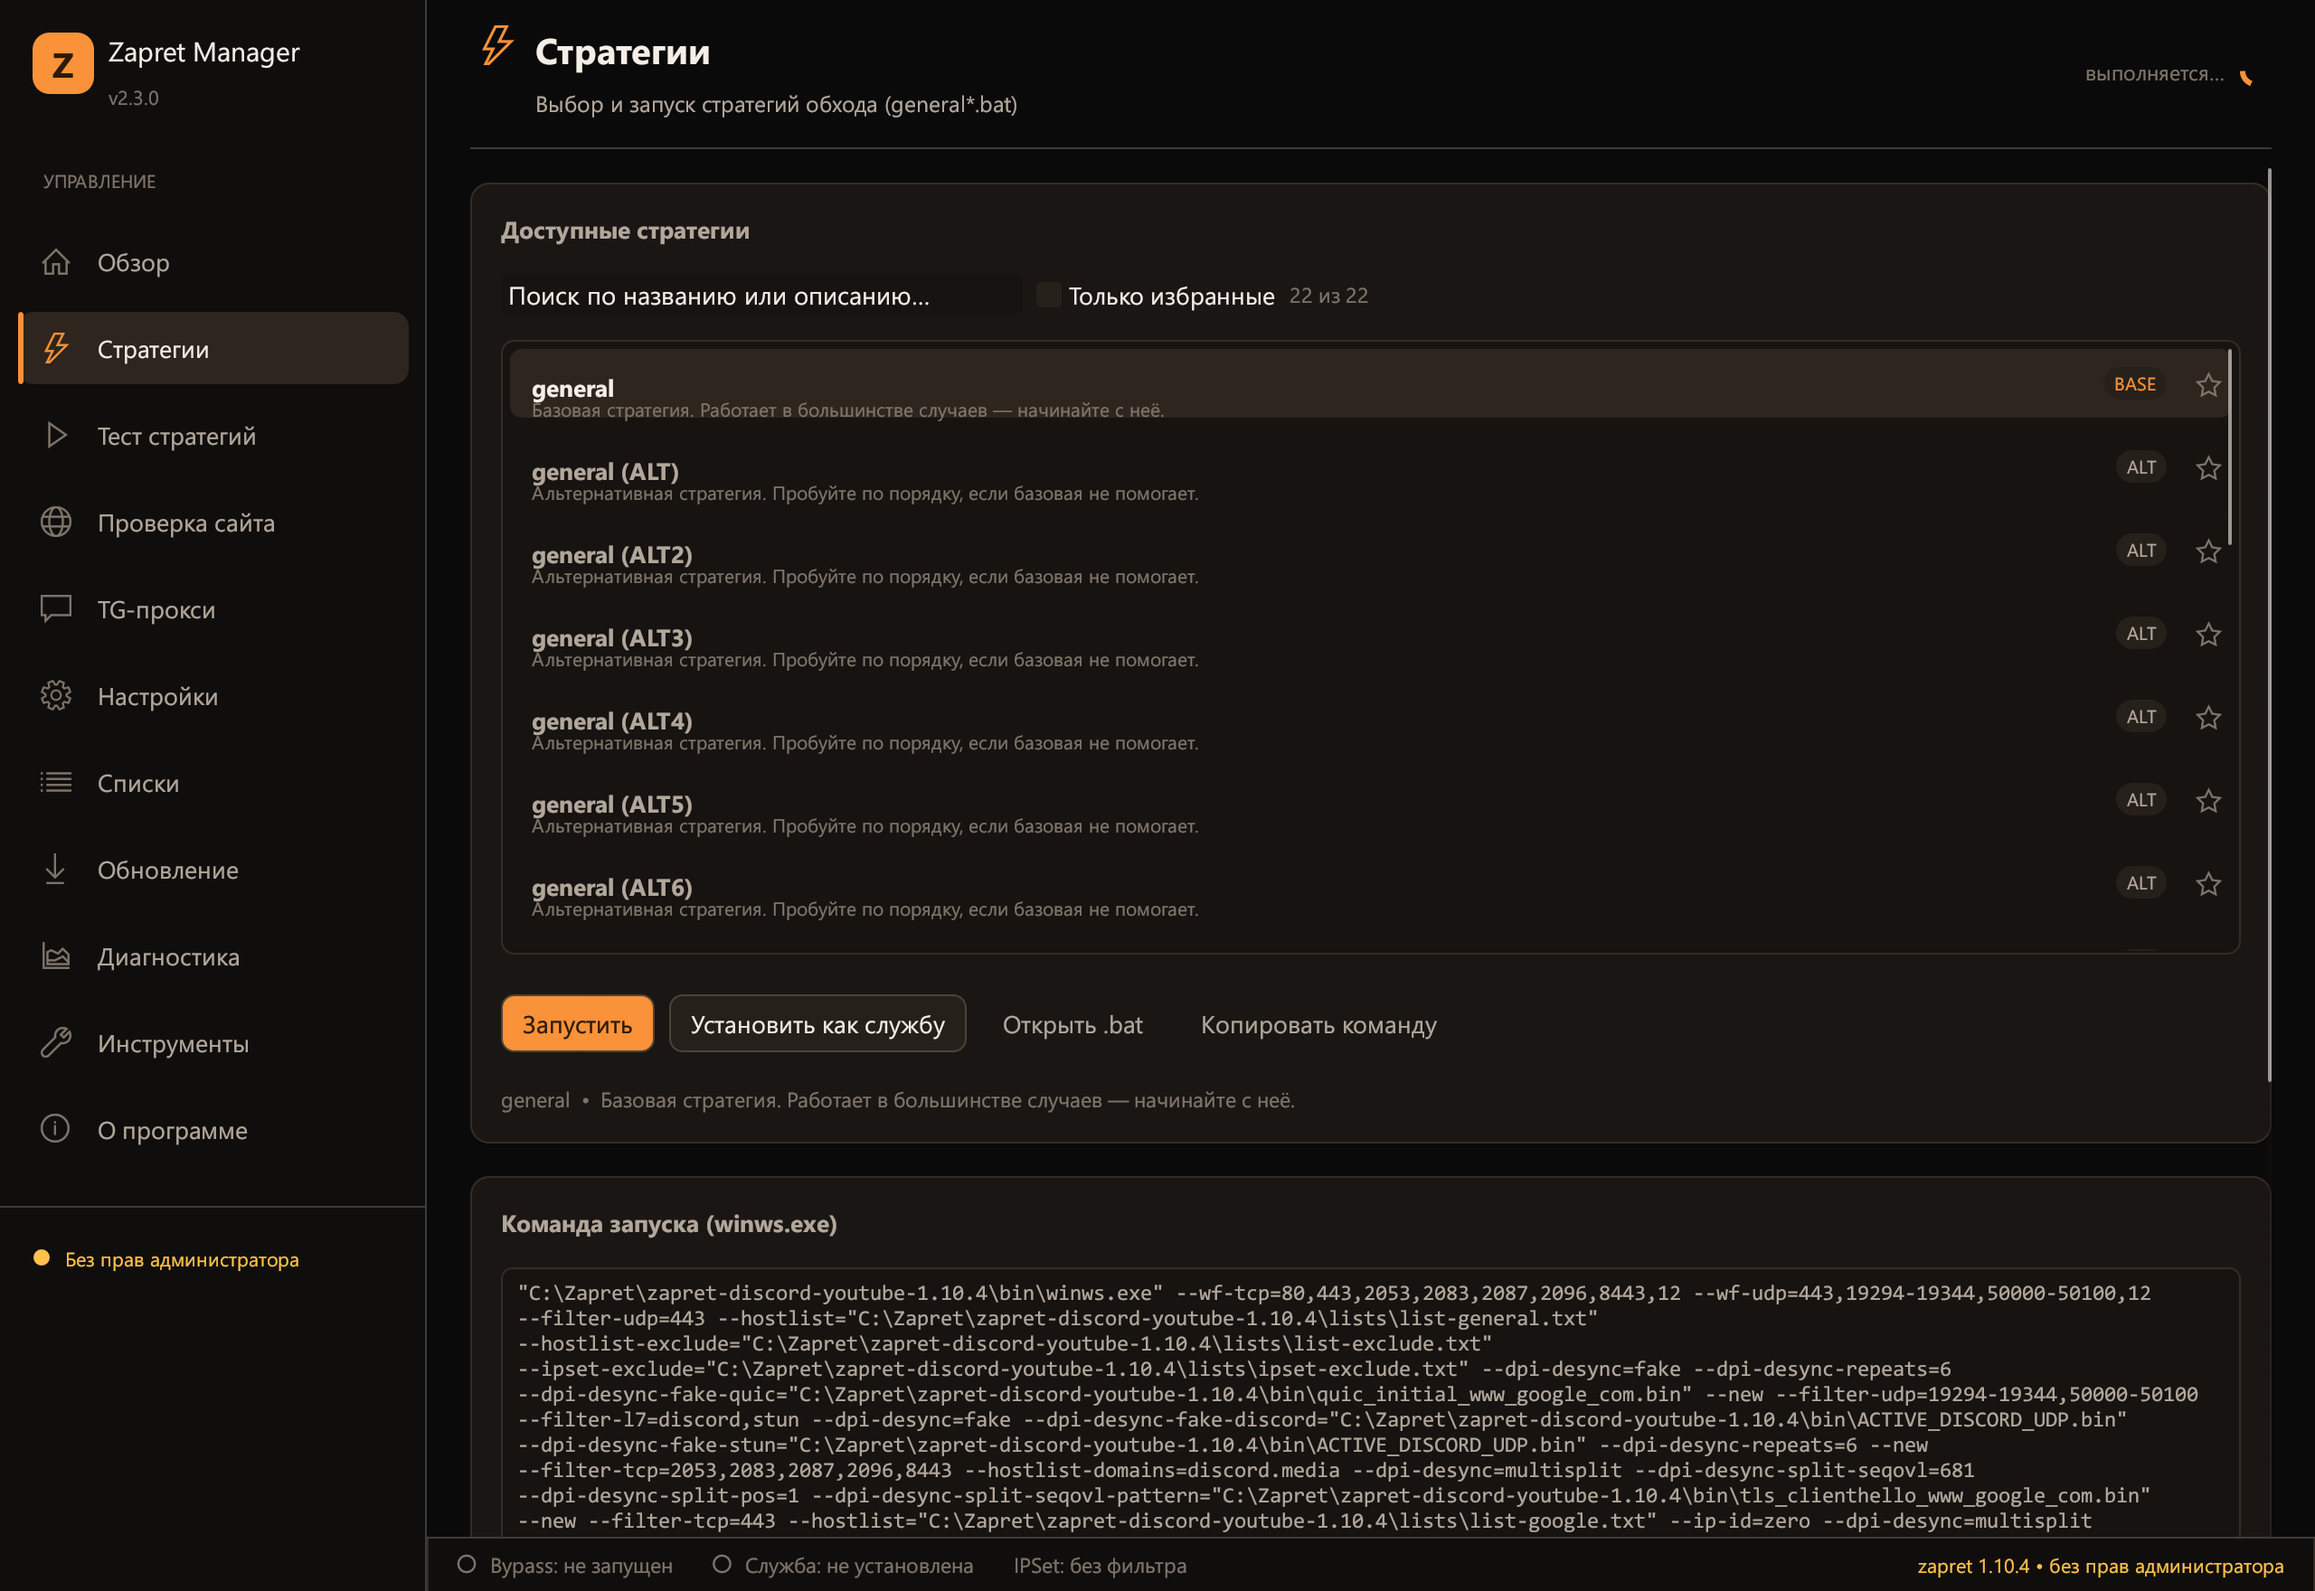
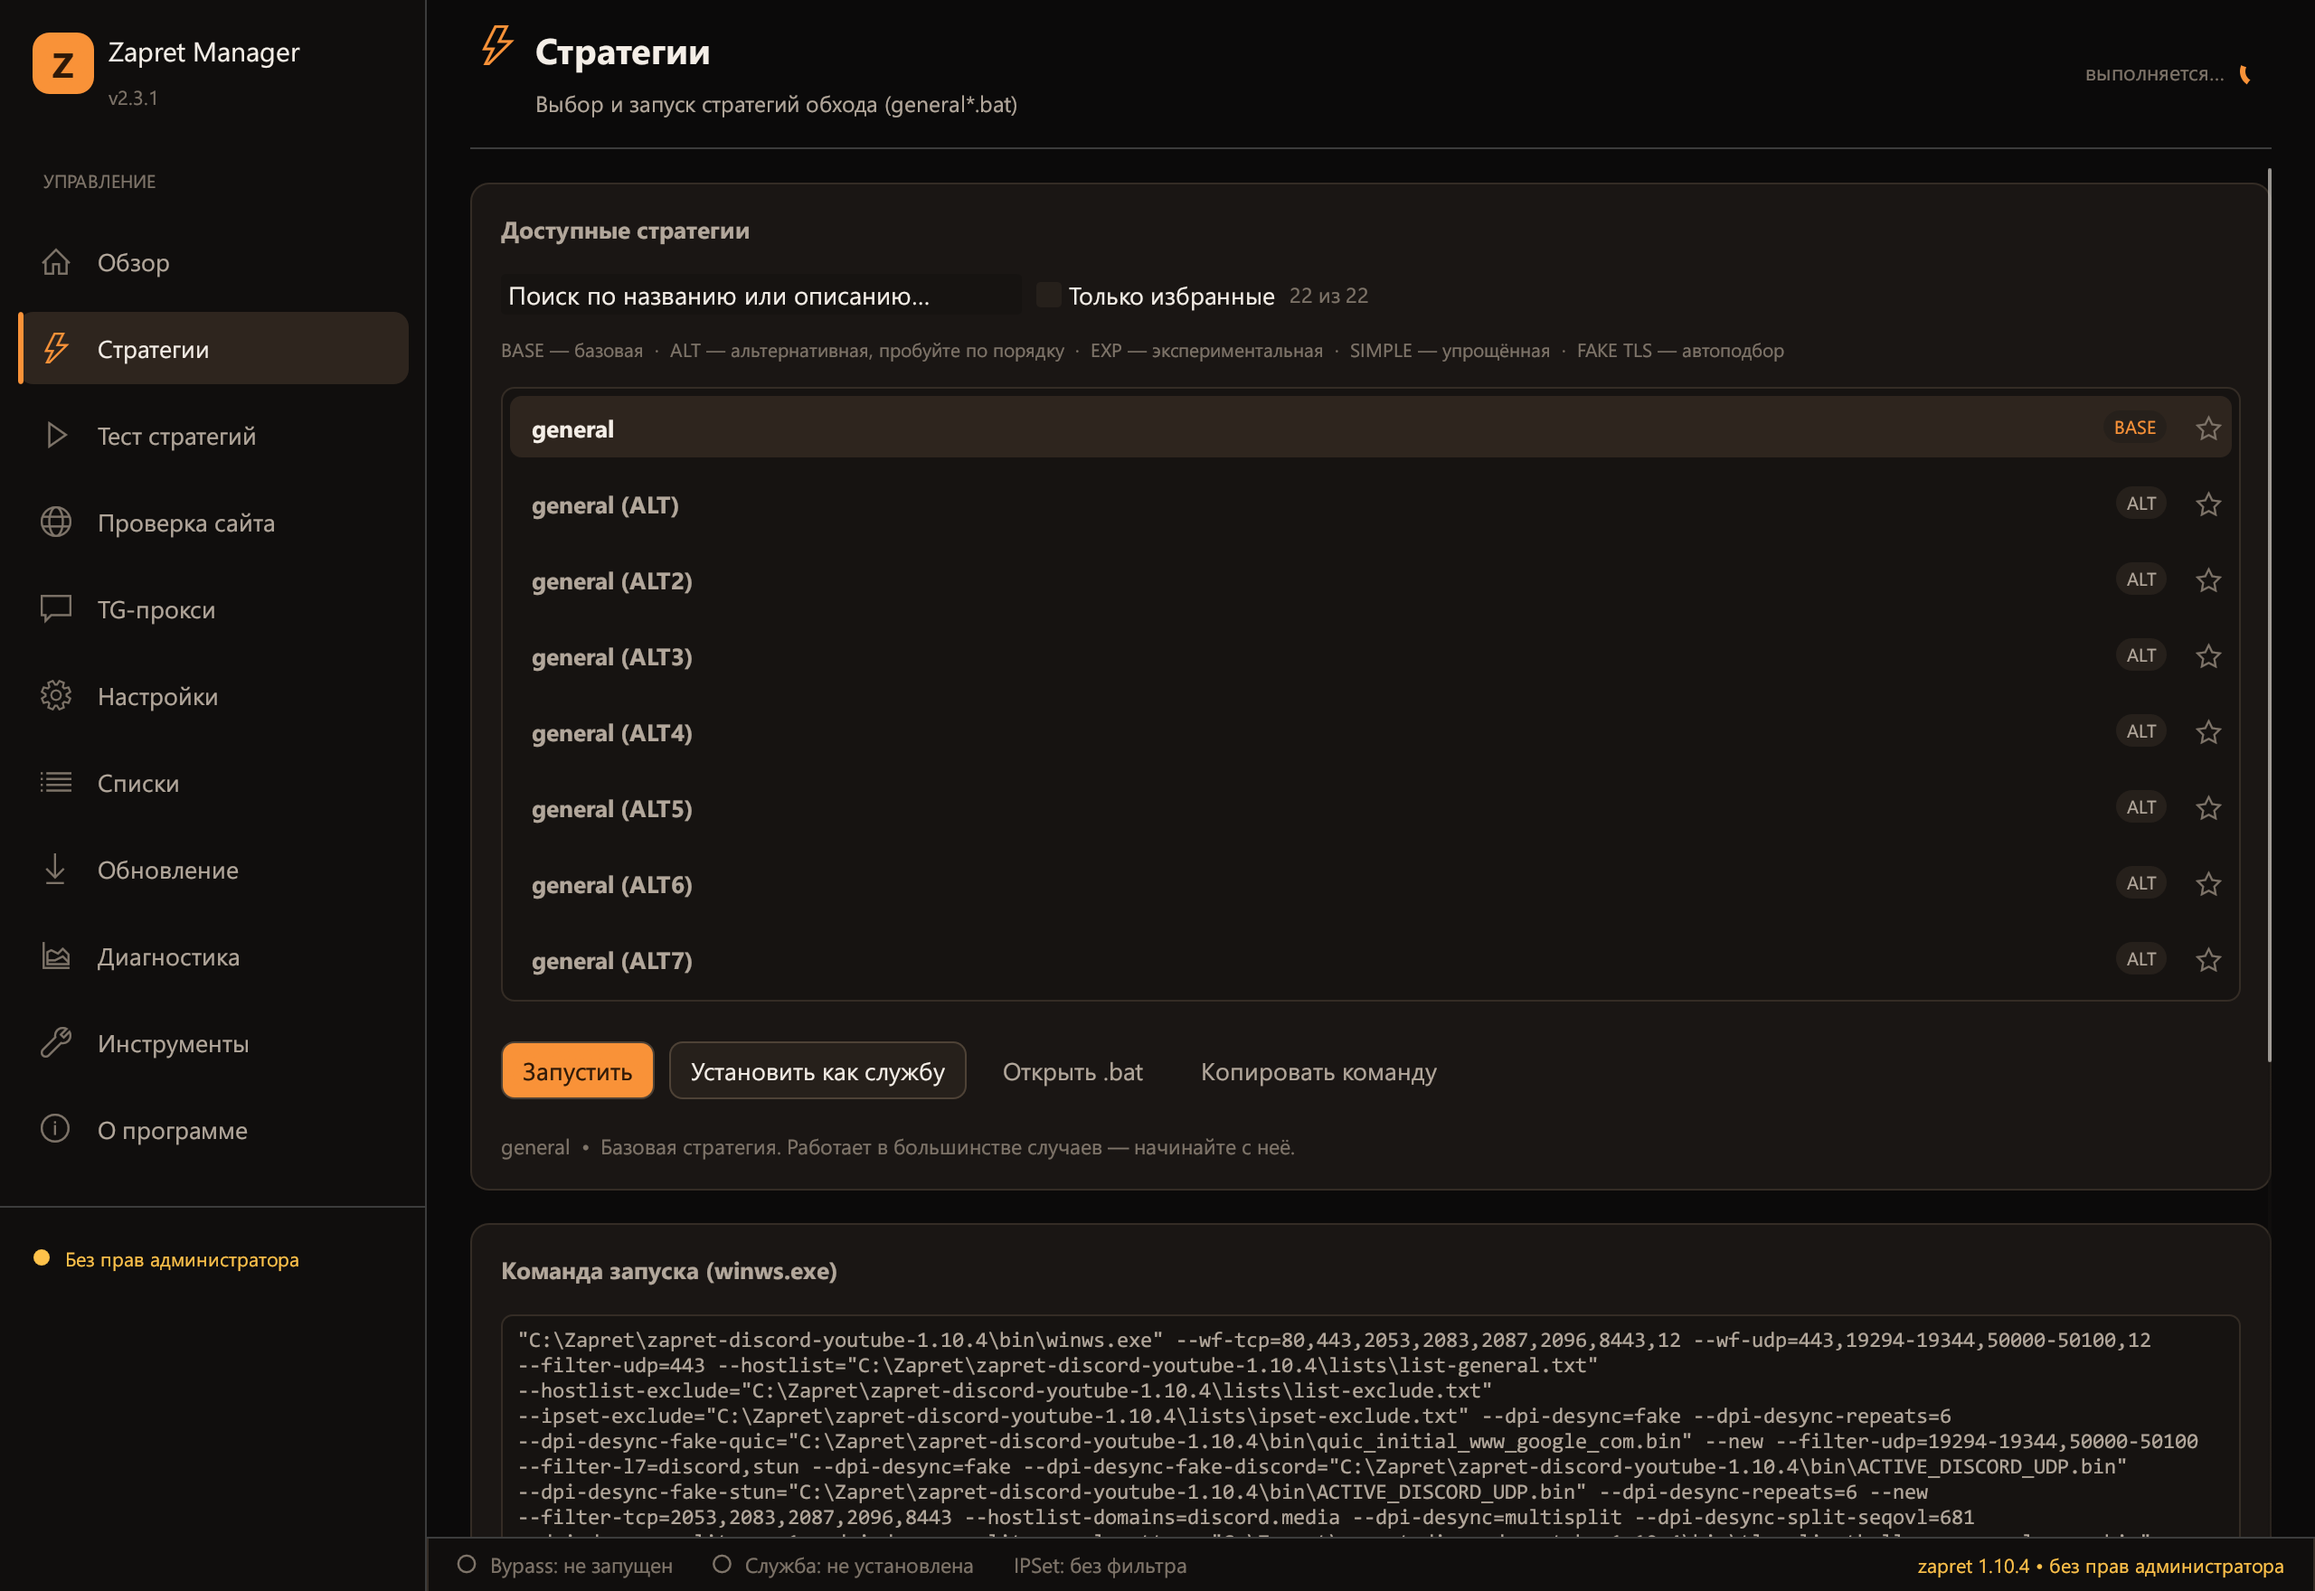
2.3.2: компактный список стратегий без повторяющихся подписей

diff --git a/src/ui/pages/strategies.rs b/src/ui/pages/strategies.rs
@@ -108,6 +108,14 @@ impl App {
                         .color(p.text_muted),
                 );
             });
+            ui.add_space(4.0);
+            ui.label(
+                RichText::new(
+                    "BASE — базовая  ·  ALT — альтернативная, пробуйте по порядку  ·  EXP — экспериментальная  ·  SIMPLE — упрощённая  ·  FAKE TLS — автоподбор",
+                )
+                .size(10.5)
+                .color(p.text_muted),
+            );
             ui.add_space(6.0);
             let mut toggle_fav: Option<String> = None;
             egui::Frame::none()
@@ -129,7 +137,7 @@ impl App {
                                 let s = &strategies[idx];
                                 let is_selected = idx == selected;
                                 let (rect, resp) = ui.allocate_exact_size(
-                                    egui::vec2(ui.available_width(), 38.0),
+                                    egui::vec2(ui.available_width(), 34.0),
                                     egui::Sense::click(),
                                 );
                                 let star_rect = egui::Rect::from_center_size(
@@ -148,18 +156,11 @@ impl App {
                                 }
                                 let is_active = !active.is_empty() && s.name.eq_ignore_ascii_case(&active);
                                 ui.painter().text(
-                                    egui::pos2(rect.left() + 12.0, rect.top() + 12.0),
-                                    egui::Align2::LEFT_TOP,
+                                    egui::pos2(rect.left() + 12.0, rect.center().y),
+                                    egui::Align2::LEFT_CENTER,
                                     &s.name,
                                     egui::FontId::new(13.0, egui::FontFamily::Name("bold".into())),
                                     if is_selected { p.text } else { p.text_dim },
-                                );
-                                ui.painter().text(
-                                    egui::pos2(rect.left() + 12.0, rect.top() + 26.0),
-                                    egui::Align2::LEFT_TOP,
-                                    &s.description,
-                                    egui::FontId::new(10.5, egui::FontFamily::Proportional),
-                                    p.text_muted,
                                 );
                                 let is_fav = favorites.contains(&s.name.to_lowercase());
                                 ui.painter().text(

diff --git a/src/lib.rs b/src/lib.rs
@@ -7,7 +7,7 @@ pub mod ui;
 pub mod util;
 
 /// Версия приложения (показывается в интерфейсе и в журнале).
-pub const APP_VERSION: &str = "2.3.1";
+pub const APP_VERSION: &str = "2.3.2";
 pub const APP_TITLE: &str = "Zapret Manager";
 
 /// Пути, которые нужны всем частям приложения.

diff --git a/RELEASE-2.3.2.md b/RELEASE-2.3.2.md
@@ -1,0 +1,10 @@
+# Zapret Manager 2.3.2
+
+- В списке стратегий убраны повторяющиеся подписи «Альтернативная стратегия…»
+  у каждой строки.
+- Пояснение к меткам BASE / ALT / EXP / SIMPLE / FAKE TLS теперь показано
+  один раз над списком.
+- Строки стали компактнее: название и метка, без повторяющегося описания.
+- Описание выбранной стратегии по-прежнему показывается под списком.
+
[1 lines of base64/hex data omitted]

diff --git a/docs/rust/FIXES-2.3.0.md b/docs/rust/FIXES-2.3.0.md
@@ -46,6 +46,12 @@
   открывает окно.
 - При старте TG WS Proxy тоже проверяется на обновление.
 
+## 6. Компактный список стратегий (2.3.2)
+
+- Повторяющиеся подписи «Альтернативная стратегия…» у каждой строки убраны.
+- Пояснение BASE / ALT / EXP / SIMPLE / FAKE TLS показывается один раз над списком.
+- Строки компактнее; описание выбранной стратегии остаётся под списком.
+
 ## Проверки
 
 35 unit-тестов, `--selftest`, `--diag`.
